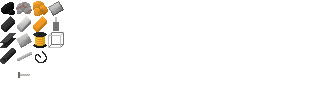
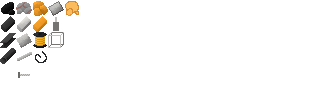
Added 'Limestone' item

Changed region(s): [[0.1786, 0.0, 0.2381, 0.1562]]

diff --git a/.godot/mono/temp/obj/Debug/PixelFactory.AssemblyInfo.cs b/.godot/mono/temp/obj/Debug/PixelFactory.AssemblyInfo.cs
@@ -13,7 +13,7 @@ using System.Reflection;
 [assembly: System.Reflection.AssemblyCompanyAttribute("PixelFactory")]
 [assembly: System.Reflection.AssemblyConfigurationAttribute("Debug")]
 [assembly: System.Reflection.AssemblyFileVersionAttribute("1.0.0.0")]
-[assembly: System.Reflection.AssemblyInformationalVersionAttribute("1.0.0+277bff4bd4b3cf620285b9536b91bac0141fa5a9")]
+[assembly: System.Reflection.AssemblyInformationalVersionAttribute("1.0.0+d89143931c65b85ff8748438a87d9d398ae3bd7a")]
 [assembly: System.Reflection.AssemblyProductAttribute("PixelFactory")]
 [assembly: System.Reflection.AssemblyTitleAttribute("PixelFactory")]
 [assembly: System.Reflection.AssemblyVersionAttribute("1.0.0.0")]
